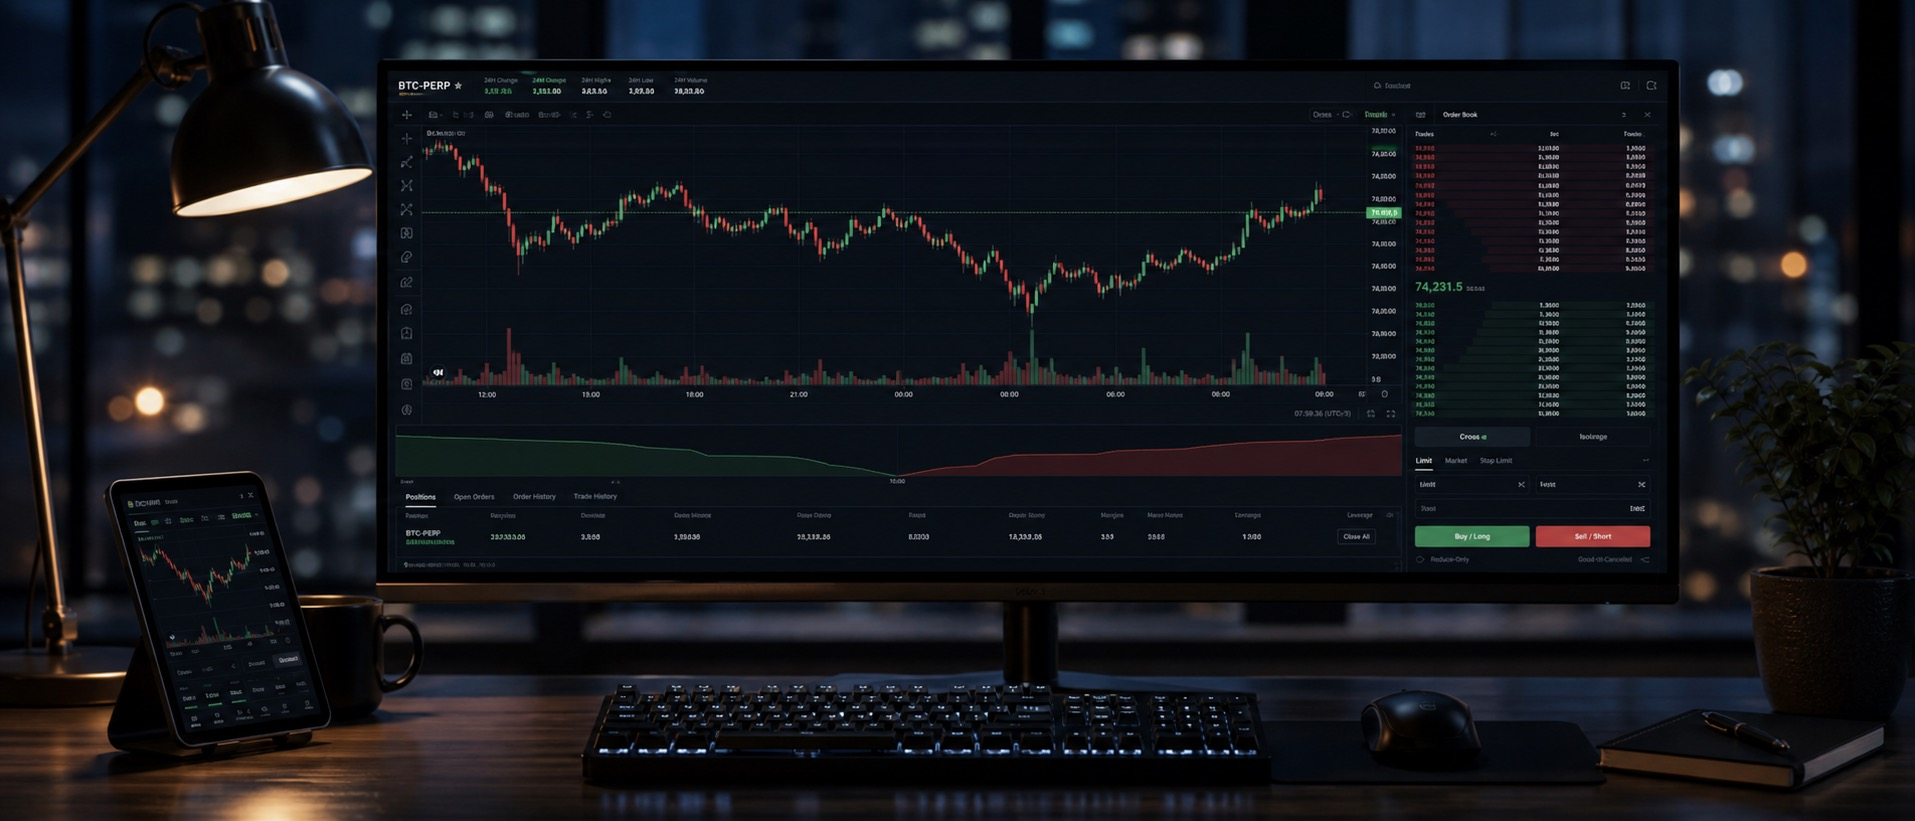
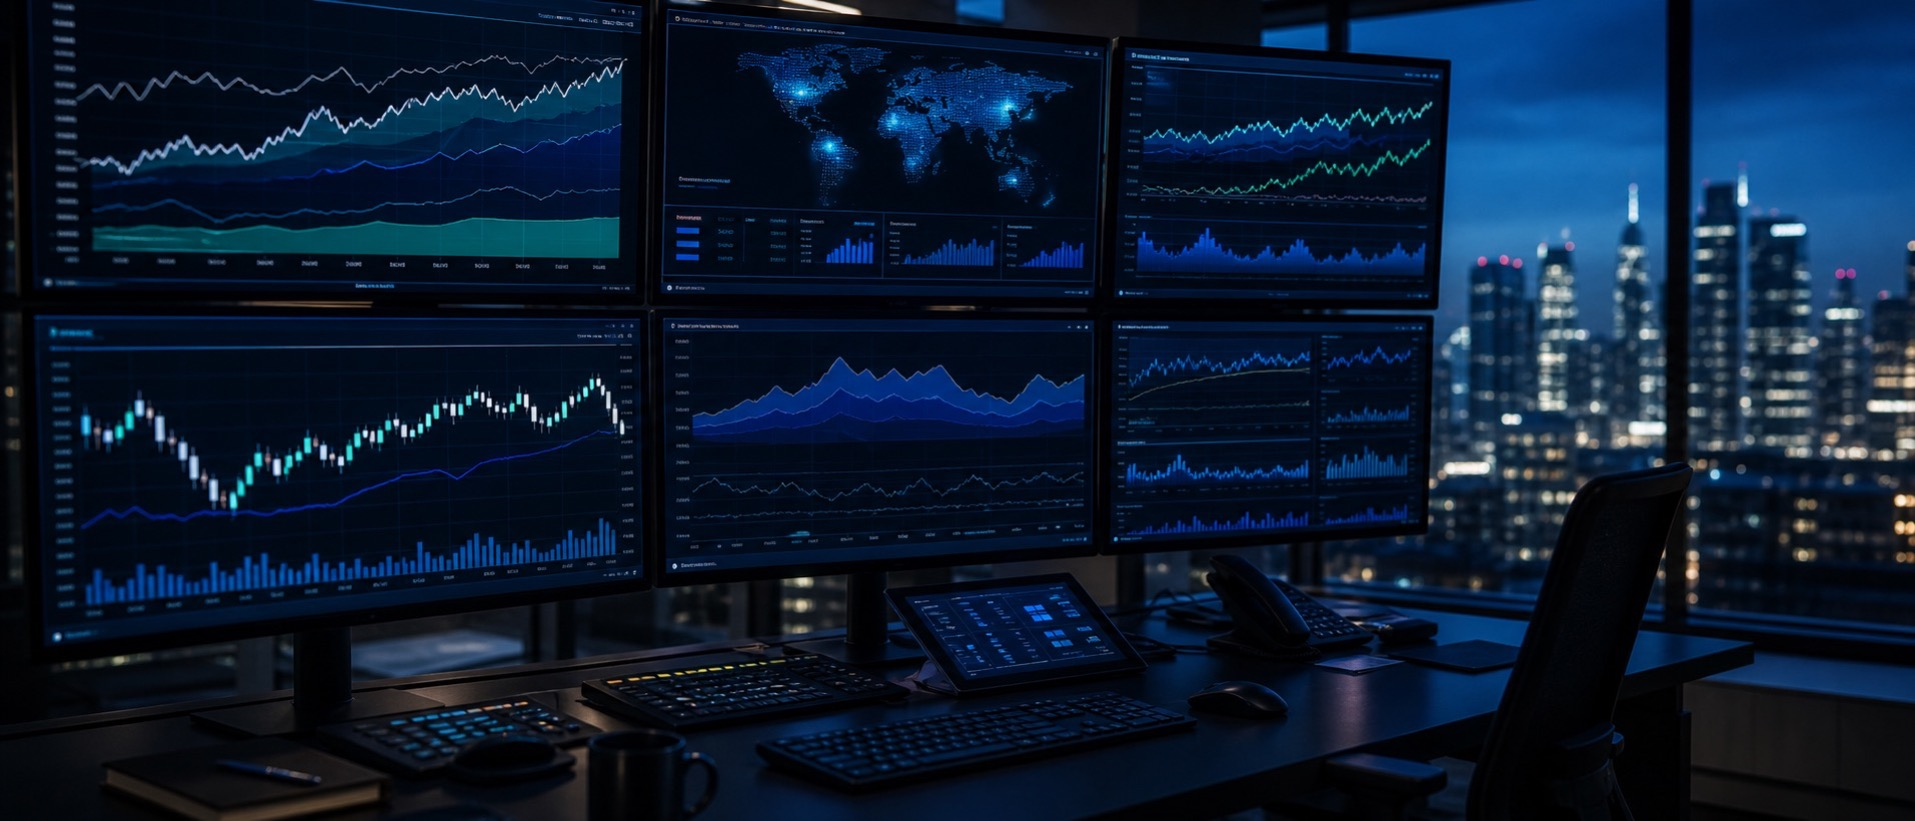
Codex updates: content, styles, assets

diff --git a/styles.css b/styles.css
@@ -61,8 +61,7 @@ a { color: inherit; text-decoration: none; }
   object-fit: cover;
   border-radius: 12px 12px 0 0;
   display: block;
-  /* Replace with: <img src="assets/hero.jpg" alt="Cryptocurrency margin trading terminal with BTC candlestick chart" class="hero__img" /> */
-  background: linear-gradient(160deg, #1a0a00 0%, #0f0800 40%, #0A0A0F 100%);
+background: linear-gradient(160deg, #1a0a00 0%, #0f0800 40%, #0A0A0F 100%);
 }
 
 /* FOCUS */
@@ -151,3 +150,70 @@ a { color: inherit; text-decoration: none; }
 .faq__item { padding: 1.5rem 0; border-bottom: 1px solid var(--rule); }
 .faq__q { font-family: var(--ff-serif); font-size: 1.05rem; font-weight: 700; color: var(--white); margin-bottom: .5rem; }
 .faq__a { font-size: .9rem; line-height: 1.75; color: var(--ash); }
+
+/* --- Mobile overflow hardening --- */
+html,
+body {
+  max-width: 100%;
+  overflow-x: clip;
+}
+
+body {
+  overscroll-behavior-x: none;
+}
+
+img,
+svg,
+video,
+canvas {
+  max-width: 100%;
+  height: auto;
+}
+
+main,
+section,
+header,
+footer,
+nav,
+form,
+fieldset,
+[class*="__inner"],
+[class*="__grid"],
+[class*="__row"],
+[class*="__cols"],
+[class*="__card"],
+[class*="__item"] {
+  min-width: 0;
+}
+
+input,
+textarea,
+select,
+button {
+  max-width: 100%;
+  min-width: 0;
+}
+
+p,
+h1,
+h2,
+h3,
+h4,
+h5,
+h6,
+a,
+li,
+span {
+  overflow-wrap: anywhere;
+}
+
+@media (max-width: 480px) {
+  .btn,
+  .btn-primary,
+  .btn-ghost,
+  [class*="btn"],
+  [class*="button"] {
+    max-width: 100%;
+    white-space: normal;
+  }
+}

diff --git a/index.html b/index.html
@@ -56,7 +56,6 @@
       },
       "contactPoint": {
         "@type": "ContactPoint",
-        "email": "[email redacted]",
         "contactType": "sales"
       }
     },
@@ -69,7 +68,7 @@
           "name": "Is currencymargins.com available for purchase?",
           "acceptedAnswer": {
             "@type": "Answer",
-            "text": "currencymargins.com is currently available for purchase. Send an enquiry directly to [email redacted]. Brokers are welcome and confidentiality is assumed."
+            "text": "currencymargins.com is currently available for purchase. Use the contact form to send an enquiry. Brokers are welcome and confidentiality is assumed."
           }
         },
         {
@@ -77,7 +76,7 @@
           "name": "How do I make an offer on currencymargins.com?",
           "acceptedAnswer": {
             "@type": "Answer",
-            "text": "Use the contact form on this page or email [email redacted] directly with your offer. The owner reads all enquiries personally and responds to serious offers promptly."
+            "text": "Use the contact form on this page with your offer. The owner reads all enquiries personally and responds to serious offers promptly."
           }
         },
         {
@@ -128,13 +127,12 @@
       <div class="hero__right">
         <p class="hero__sub"><strong>CURRENCYMARGINS.COM</strong> is available for purchase. One possible direction: a margin trading and leveraged derivatives platform for digital assets, offering perpetual futures, options, and collateralised lending across BTC, ETH, and major altcoins with transparent liquidation mechanics and real-time margin health monitoring.</p>
         <div class="hero__cta">
-          <a class="btn-primary btn-primary--lg" href="mailto:[email redacted]?subject=Offer%20on%20CURRENCYMARGINS.COM">Make an offer <span aria-hidden="true">→</span></a>
+          <a class="btn-primary btn-primary--lg" href="#acquire">Make an offer <span aria-hidden="true">→</span></a>
           <a class="btn-outline" href="#focus">Platform overview</a>
         </div>
       </div>
     </div>
-    <!-- Replace with: <img src="assets/hero.jpg" alt="Cryptocurrency margin trading terminal showing BTC perpetual futures chart" class="hero__img" /> -->
-    <img src="assets/hero.jpg" alt="Cryptocurrency margin trading terminal showing BTC perpetual futures chart" class="hero__img" />
+<img src="assets/hero.jpg" alt="Cryptocurrency margin trading terminal showing BTC perpetual futures chart" class="hero__img" />
   </div>
 </section>
 
@@ -209,15 +207,14 @@
     <p class="acquire__eyebrow"><span class="acquire__eyebrow-dot" aria-hidden="true"></span>The asset is the address</p>
     <h2 class="acquire__title">Purchase <em>CURRENCYMARGINS.COM</em>.</h2>
     <p class="acquire__lede">Send a note. Offers, partnerships, and serious enquiries are read by the owner directly. Brokers welcome. Confidentiality assumed.</p>
-    <form class="acquire-form" action="mailto:[email redacted]" method="post" enctype="text/plain">
+    <form class="acquire-form" action="#" method="post" enctype="text/plain">
       <div class="acquire-form__row">
         <label class="field"><span class="field__label">Name</span><input type="text" name="name" required autocomplete="name" /></label>
-        <label class="field"><span class="field__label">Email</span><input type="email" name="email" required autocomplete="email" placeholder="[email redacted]" /></label>
+        <label class="field"><span class="field__label">Reply contact</span><input type="email" name="email" required autocomplete="email" placeholder="Where should we reply?" /></label>
       </div>
       <label class="field"><span class="field__label">Offer or message</span><textarea name="message" rows="3" placeholder="A few lines is plenty."></textarea></label>
       <div class="acquire-form__actions">
         <button class="btn-primary btn-primary--lg" type="submit">Send enquiry <span aria-hidden="true">→</span></button>
-        <p class="acquire-form__alt">Or write to <a href="mailto:[email redacted]">[email redacted]</a></p>
       </div>
     </form>
   </div>
@@ -229,11 +226,11 @@
     <div class="faq__list">
       <div class="faq__item">
         <h3 class="faq__q">Is currencymargins.com available for purchase?</h3>
-        <p class="faq__a">currencymargins.com is currently available for purchase. Send an enquiry directly to [email redacted]. Brokers are welcome and confidentiality is assumed on all enquiries.</p>
+        <p class="faq__a">currencymargins.com is currently available for purchase. Use the contact form to send an enquiry. Brokers are welcome and confidentiality is assumed on all enquiries.</p>
       </div>
       <div class="faq__item">
         <h3 class="faq__q">How do I make an offer on currencymargins.com?</h3>
-        <p class="faq__a">Use the contact form above or email [email redacted] directly with your offer or message. The owner reads all enquiries personally and responds to serious offers promptly.</p>
+        <p class="faq__a">Use the contact form on this page with your offer or message. The owner reads all enquiries personally and responds to serious offers promptly.</p>
       </div>
       <div class="faq__item">
         <h3 class="faq__q">Who is selling currencymargins.com?</h3>